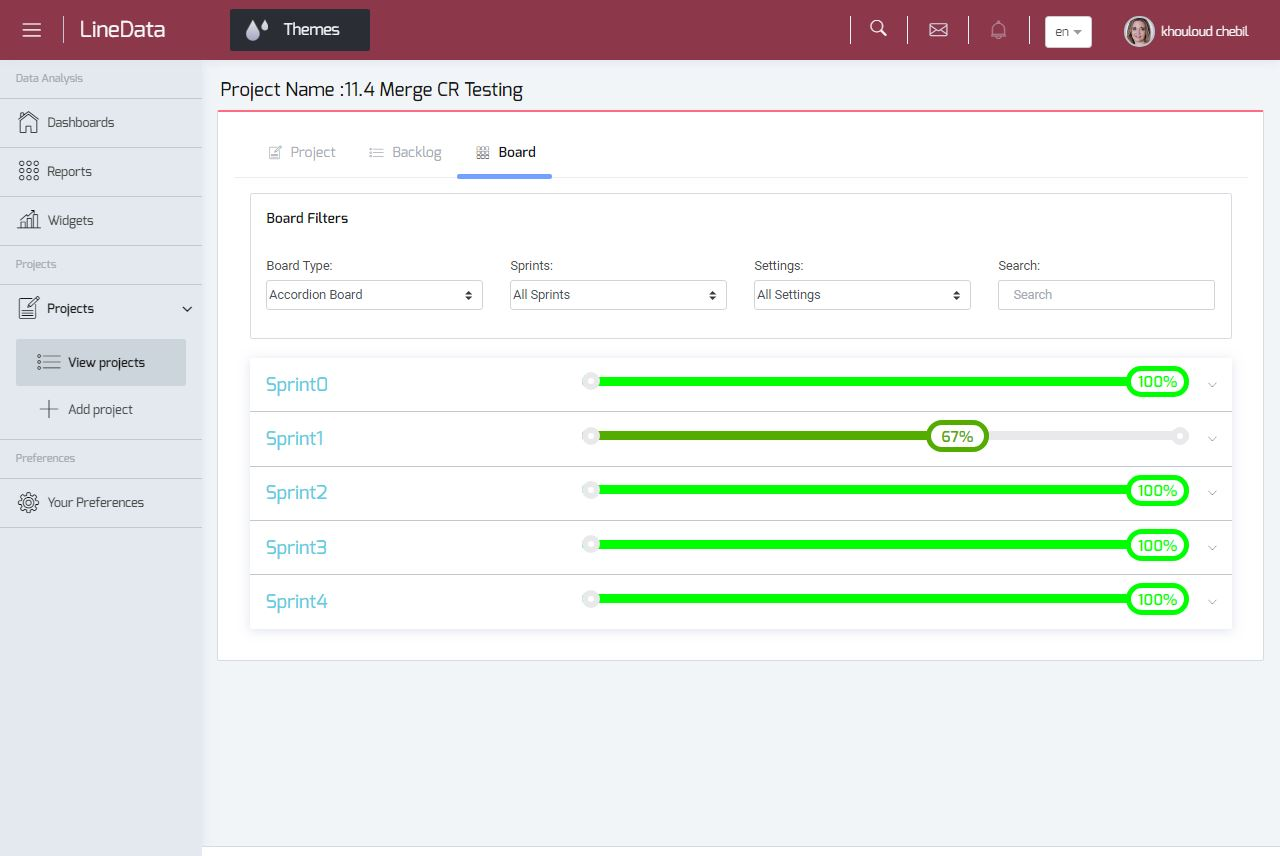
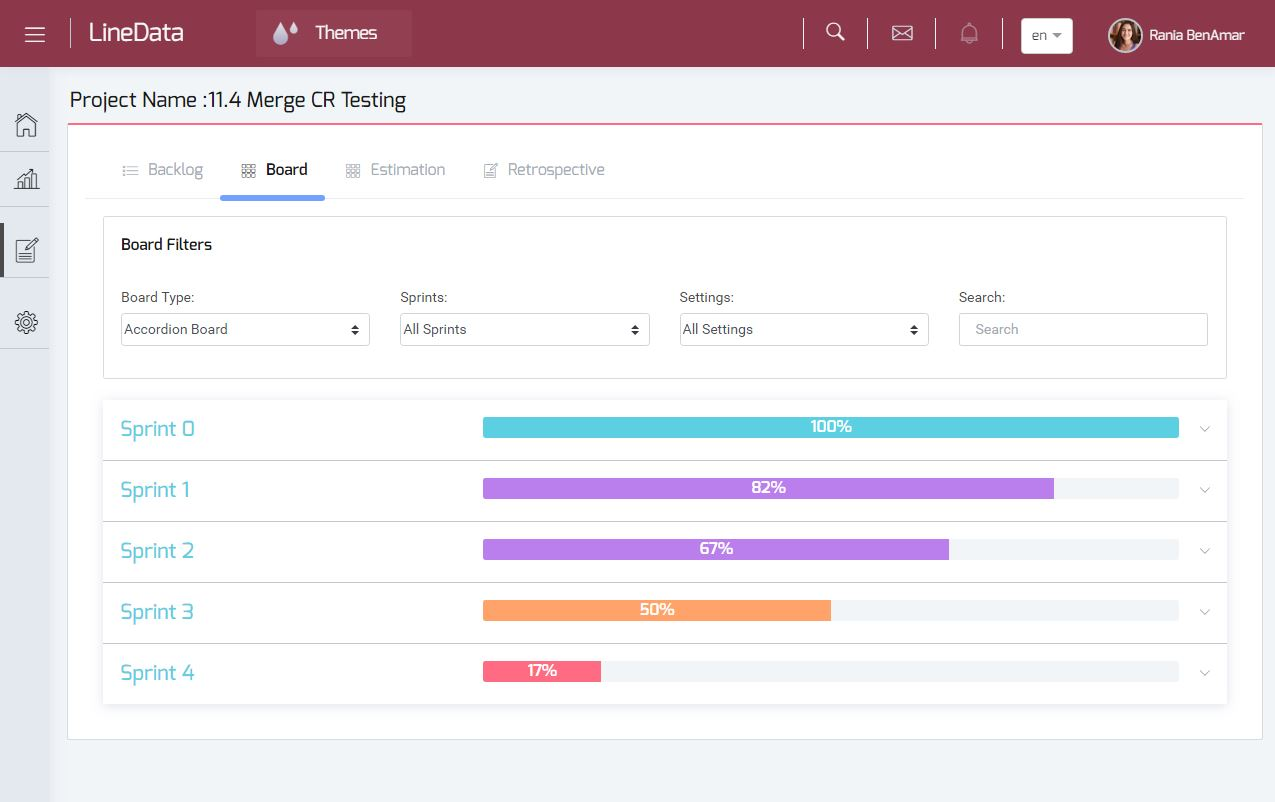
documentation

diff --git a/Usage/Use/project-management/index.html b/Usage/Use/project-management/index.html
@@ -323,13 +323,6 @@
     <ul class="md-nav__list" data-md-scrollfix>
       
         <li class="md-nav__item">
-  <a href="#project-part" title="Project part" class="md-nav__link">
-    Project part
-  </a>
-  
-</li>
-      
-        <li class="md-nav__item">
   <a href="#backlog-part" title="Backlog part" class="md-nav__link">
     Backlog part
   </a>
@@ -347,6 +340,13 @@
           <li class="md-nav__item">
   <a href="#add-a-task-to-your-backlog" title="Add a task to your backlog" class="md-nav__link">
     Add a task to your backlog
+  </a>
+  
+</li>
+        
+          <li class="md-nav__item">
+  <a href="#add-additional-information-to-the-task" title="Add additional information to the task" class="md-nav__link">
+    Add additional information to the task
   </a>
   
 </li>
@@ -372,8 +372,15 @@
 </li>
         
           <li class="md-nav__item">
-  <a href="#cr-board" title="CR board" class="md-nav__link">
-    CR board
+  <a href="#cr-and-waterfall-board" title="CR and WaterFall board" class="md-nav__link">
+    CR and WaterFall board
+  </a>
+  
+</li>
+        
+          <li class="md-nav__item">
+  <a href="#drag-and-drop-tasks" title="Drag and drop tasks" class="md-nav__link">
+    Drag and drop tasks
   </a>
   
 </li>
@@ -593,13 +600,6 @@
     <ul class="md-nav__list" data-md-scrollfix>
       
         <li class="md-nav__item">
-  <a href="#project-part" title="Project part" class="md-nav__link">
-    Project part
-  </a>
-  
-</li>
-      
-        <li class="md-nav__item">
   <a href="#backlog-part" title="Backlog part" class="md-nav__link">
     Backlog part
   </a>
@@ -617,6 +617,13 @@
           <li class="md-nav__item">
   <a href="#add-a-task-to-your-backlog" title="Add a task to your backlog" class="md-nav__link">
     Add a task to your backlog
+  </a>
+  
+</li>
+        
+          <li class="md-nav__item">
+  <a href="#add-additional-information-to-the-task" title="Add additional information to the task" class="md-nav__link">
+    Add additional information to the task
   </a>
   
 </li>
@@ -642,8 +649,15 @@
 </li>
         
           <li class="md-nav__item">
-  <a href="#cr-board" title="CR board" class="md-nav__link">
-    CR board
+  <a href="#cr-and-waterfall-board" title="CR and WaterFall board" class="md-nav__link">
+    CR and WaterFall board
+  </a>
+  
+</li>
+        
+          <li class="md-nav__item">
+  <a href="#drag-and-drop-tasks" title="Drag and drop tasks" class="md-nav__link">
+    Drag and drop tasks
   </a>
   
 </li>
@@ -673,8 +687,7 @@
                 <h1 id="project-management">Project Management</h1>
 <p>This page is showen when we click on <code>Go to project</code> </p>
 <p>In this part, you will see three parts that each project taken:  </p>
-<p><strong><code>Project | Backlog | Board</code></strong>  </p>
-<h2 id="project-part">Project part</h2>
+<p><strong><code>Backlog | Board | Retrospective</code></strong>  </p>
 <h2 id="backlog-part">Backlog part</h2>
 <h3 id="view-your-project-backlog">View your project backlog</h3>
 <p>The backlog of each project is grouped by phase <strong><code>(DEV | QA | BA ...)</code></strong> and in every one of them there are tasks related to every phase.</p>
@@ -683,6 +696,7 @@
 <p>Add new task if you want with different information and in witch sprint you want to add it .</p>
 <p><img alt="task" src="../../../images/add-task.png" /></p>
 <p>You have the possibility to delete and edit task.</p>
+<h3 id="add-additional-information-to-the-task">Add additional information to the task</h3>
 <h2 id="board-part">Board part</h2>
 <p>The created tasks are added in the first lane of the board (for example : todo) and takes the status <strong><code>Todo</code></strong></p>
 <p>If you want to change the place of the task you simply drag it to the next lane. </p>
@@ -690,9 +704,11 @@
 <h3 id="scrum-board">SCRUM board</h3>
 <p>Contains more then one sprint</p>
 <p><img alt="board" src="../../../images/board-project-scrum.png" /></p>
-<h3 id="cr-board">CR board</h3>
-<p>Contains only a sprint </p>
-<p><img alt="CR-board" src="../../../images/board-project.png" /></p>
+<h3 id="cr-and-waterfall-board">CR and WaterFall board</h3>
+<p>Contains only one sprint </p>
+<h3 id="drag-and-drop-tasks">Drag and drop tasks</h3>
+<p>Each member can change the place of the task between the lanes of the board.</p>
+<p><img alt="drag_drop" src="../../../images/draganddrop.png" /></p>
                 
                   
                 

diff --git a/Usage/Administration/translation/index.html b/Usage/Administration/translation/index.html
@@ -429,6 +429,26 @@
     See the changes
   </a>
   
+    <nav class="md-nav">
+      <ul class="md-nav__list">
+        
+          <li class="md-nav__item">
+  <a href="#french-translation" title="French Translation" class="md-nav__link">
+    French Translation
+  </a>
+  
+</li>
+        
+          <li class="md-nav__item">
+  <a href="#english-translation" title="English Translation" class="md-nav__link">
+    English Translation
+  </a>
+  
+</li>
+        
+      </ul>
+    </nav>
+  
 </li>
       
       
@@ -587,6 +607,26 @@
     See the changes
   </a>
   
+    <nav class="md-nav">
+      <ul class="md-nav__list">
+        
+          <li class="md-nav__item">
+  <a href="#french-translation" title="French Translation" class="md-nav__link">
+    French Translation
+  </a>
+  
+</li>
+        
+          <li class="md-nav__item">
+  <a href="#english-translation" title="English Translation" class="md-nav__link">
+    English Translation
+  </a>
+  
+</li>
+        
+      </ul>
+    </nav>
+  
 </li>
       
       
@@ -633,8 +673,11 @@ Choose the page you want to edit from the accordion. </p>
 <p><img alt="translation_translate" src="../../../images/translation_translate.png" /><br />
 Find the approriate label and change the translation text. after that you will notice a green alert in the top right of the window that indicate che change from to</p>
 <h2 id="see-the-changes">See the changes</h2>
-<p><img alt="translation_verif" src="../../../images/translation_verif.png" />
-You can see the new text in our application.</p>
+<h3 id="french-translation">French Translation</h3>
+<p><img alt="translation_fr" src="../../../images/translation_fr.png" /></p>
+<h3 id="english-translation">English Translation</h3>
+<p><img alt="translation_en" src="../../../images/translation_en.png" /></p>
+<p>You can see the new text in our application.</p>
                 
                   
                 

diff --git a/Usage/Use/projects/index.html b/Usage/Use/projects/index.html
@@ -608,7 +608,7 @@
                 
                 <h1 id="view-projects">View Projects</h1>
 <h3 id="here-you-will-see-all-your-projects-setted-and-unsetted">Here you will see all your projects (setted and unsetted)</h3>
-<p><img alt="app" src="../../../images/app.png" /></p>
+<p><img alt="app" src="../../../images/projects.png" /></p>
 <p><strong><code>In the left side</code></strong> - already configured projects.  </p>
 <p><strong><code>In the right side</code></strong> - projects not configured.</p>
 <h2 id="configured-projects">Configured projects</h2>

diff --git a/index.html b/index.html
@@ -769,7 +769,7 @@ you can visit <a href="http://localhost:8000/">http://localhost:8000/</a> to see
 <li><strong><code>ng serve -o</code></strong>  - Run the angular application.<br />
 you can visit <a href="http://localhost:4200/">http://localhost:4200/</a> to see the application.  </li>
 </ul>
-<p><img alt="app" src="images/app.png" /></p>
+<p><img alt="app" src="images/projects.png" /></p>
 <div class="admonition success">
 <p class="admonition-title">Congratulations</p>
 <p>And voilaaaaaa...<br />

diff --git a/Usage/Use/app_use/index.html b/Usage/Use/app_use/index.html
@@ -589,7 +589,7 @@
 </ul>
 <p>Navigate to this URL : <a href="http://localhost:4200/">http://localhost:4200/</a> </p>
 <p>Now you are here in the first page:</p>
-<p><img alt="app" src="../../../images/app.png" /></p>
+<p><img alt="app" src="../../../images/projects.png" /></p>
 <h2 id="what-you-can-do">What you can do ?</h2>
 <p>Here you can choose which page you want to visit.</p>
 <table>
